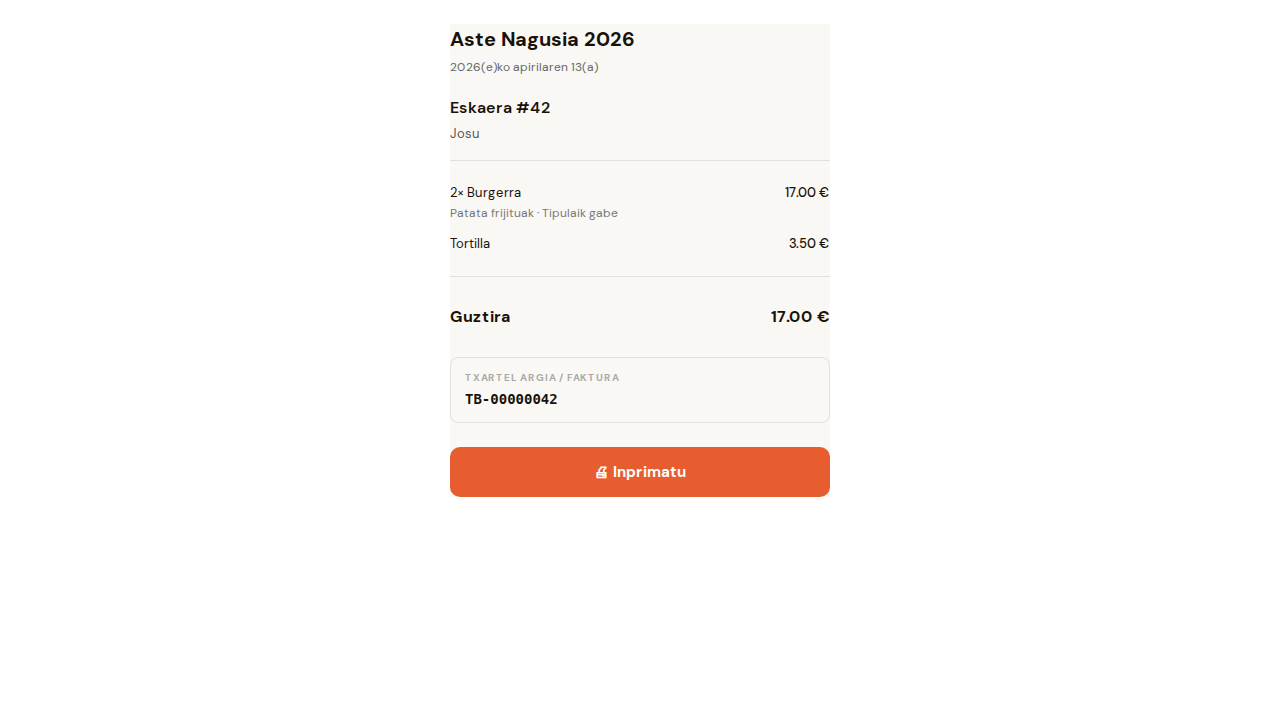
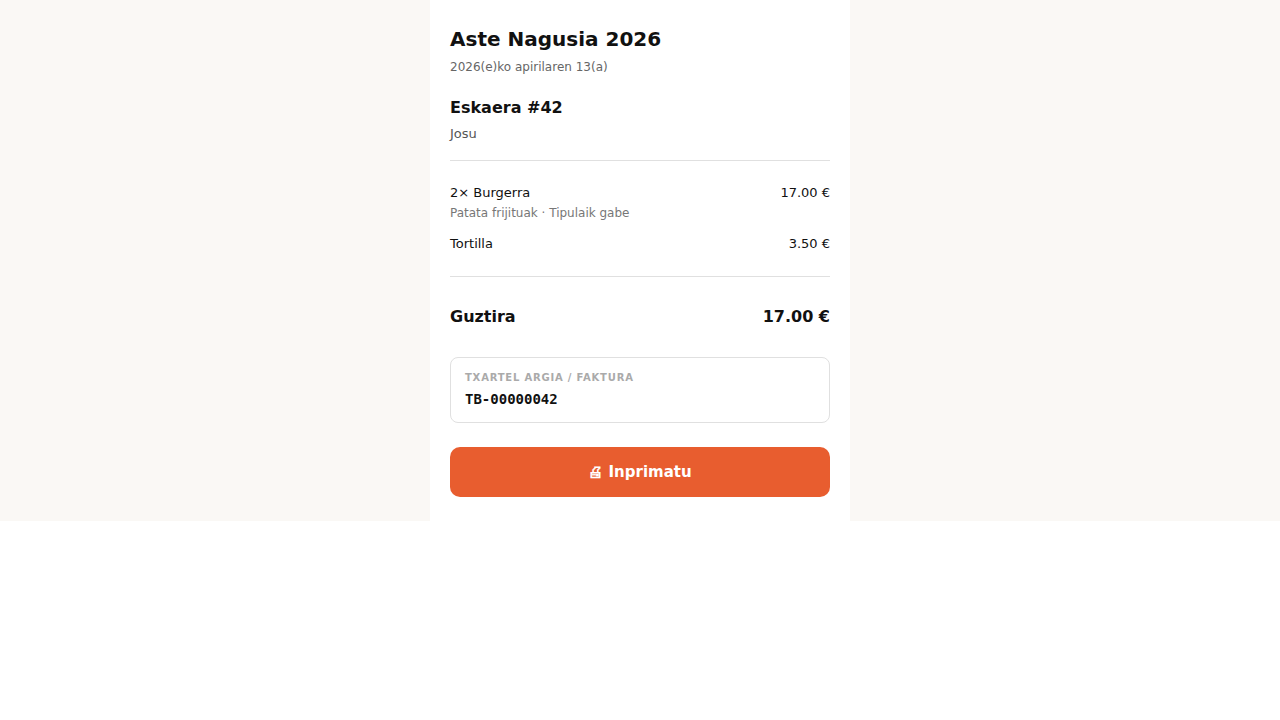
fix(receipt): remove nested html/head/body to fix React hydration error #418
The receipt page was rendering its own <html>, <head>, and <body> tags
inside Next.js's root layout (which already provides those elements).
The browser normalised the invalid nesting, causing a mismatch between
server-rendered HTML and what React expected during hydration.

Replace the standalone-document structure with a scoped .receipt div
wrapper. All CSS selectors are prefixed to avoid bleeding into the rest
of the app. Page title is now set via generateMetadata.

https://claude.ai/code/session_011jPSrUTJJrDkCAcd4cJ7AG

diff --git a/src/app/(public)/[locale]/[slug]/track/[code]/receipt/page.tsx b/src/app/(public)/[locale]/[slug]/track/[code]/receipt/page.tsx
@@ -1,8 +1,18 @@
 import { notFound } from 'next/navigation';
+import type { Metadata } from 'next';
 import { txosnaRepo, orderRepo, ticketRepo, ticketBaiInvoiceRepo } from '@/lib/store';
 
 interface Props {
   params: Promise<{ locale: string; slug: string; code: string }>;
+}
+
+export async function generateMetadata({ params }: Props): Promise<Metadata> {
+  const { slug, code } = await params;
+  const txosna = await txosnaRepo.findBySlug(slug);
+  const order = txosna
+    ? await orderRepo.findByVerificationCode(txosna.id, code.toUpperCase())
+    : null;
+  return { title: order ? `Txartela #${order.orderNumber}` : 'Txartela' };
 }
 
 export default async function ReceiptPage({ params }: Props) {
@@ -29,116 +39,85 @@ export default async function ReceiptPage({ params }: Props) {
   const allLines = tickets.flatMap((t) => t.lines);
 
   return (
-    <html>
-      <head>
-        <meta charSet="utf-8" />
-        <meta name="viewport" content="width=device-width, initial-scale=1" />
-        <title>Txartela #{order.orderNumber}</title>
-        <style>{`
-          * { box-sizing: border-box; margin: 0; padding: 0; }
-          body {
-            font-family: system-ui, sans-serif;
-            font-size: 14px;
-            color: #111;
-            background: #fff;
-            padding: 24px 20px;
-            max-width: 420px;
-            margin: 0 auto;
-          }
-          .header { margin-bottom: 20px; }
-          .txosna-name { font-size: 20px; font-weight: 700; }
-          .meta { font-size: 12px; color: #666; margin-top: 4px; }
-          .order-number { font-size: 16px; font-weight: 600; margin: 16px 0 4px; }
-          .customer { font-size: 13px; color: #555; }
-          hr { border: none; border-top: 1px solid #e0e0e0; margin: 16px 0; }
-          .line { display: flex; justify-content: space-between; gap: 12px; padding: 6px 0; }
-          .line-name { flex: 1; font-size: 13px; }
-          .line-detail { font-size: 12px; color: #777; margin-top: 2px; }
-          .line-price { font-size: 13px; white-space: nowrap; font-weight: 500; }
-          .total-row { display: flex; justify-content: space-between; font-size: 16px; font-weight: 700; padding: 12px 0; }
-          .footer { font-size: 11px; color: #aaa; text-align: center; margin-top: 24px; }
-          .fiscal { margin-top: 16px; padding: 12px 14px; border: 1px solid #e0e0e0; border-radius: 8px; }
-          .fiscal-label { font-size: 10px; font-weight: 700; color: #aaa; text-transform: uppercase; letter-spacing: 0.08em; margin-bottom: 4px; }
-          .fiscal-ref { font-family: monospace; font-size: 14px; font-weight: 700; }
-          .fiscal-qr { display: inline-block; margin-top: 8px; font-size: 12px; color: #e85d2f; text-decoration: none; }
-          .print-btn {
-            display: block;
-            width: 100%;
-            margin-top: 24px;
-            padding: 14px;
-            background: #e85d2f;
-            color: #fff;
-            border: none;
-            border-radius: 10px;
-            font-size: 15px;
-            font-weight: 700;
-            cursor: pointer;
-          }
-          @media print {
-            .print-btn { display: none; }
-            body { padding: 0; }
-          }
-        `}</style>
-      </head>
-      <body>
-        <div className="header">
-          <div className="txosna-name">{txosna.name}</div>
-          <div className="meta">{dateStr}</div>
-        </div>
+    <div className="receipt">
+      <style>{`
+        .receipt { font-family: system-ui, sans-serif; font-size: 14px; color: #111; background: #fff; padding: 24px 20px; max-width: 420px; margin: 0 auto; }
+        .receipt * { box-sizing: border-box; }
+        .r-header { margin-bottom: 20px; }
+        .r-txosna-name { font-size: 20px; font-weight: 700; }
+        .r-meta { font-size: 12px; color: #666; margin-top: 4px; }
+        .r-order-number { font-size: 16px; font-weight: 600; margin: 16px 0 4px; }
+        .r-customer { font-size: 13px; color: #555; }
+        .receipt hr { border: none; border-top: 1px solid #e0e0e0; margin: 16px 0; }
+        .r-line { display: flex; justify-content: space-between; gap: 12px; padding: 6px 0; }
+        .r-line-name { flex: 1; font-size: 13px; }
+        .r-line-detail { font-size: 12px; color: #777; margin-top: 2px; }
+        .r-line-price { font-size: 13px; white-space: nowrap; font-weight: 500; }
+        .r-total-row { display: flex; justify-content: space-between; font-size: 16px; font-weight: 700; padding: 12px 0; }
+        .r-footer { font-size: 11px; color: #aaa; text-align: center; margin-top: 24px; }
+        .r-fiscal { margin-top: 16px; padding: 12px 14px; border: 1px solid #e0e0e0; border-radius: 8px; }
+        .r-fiscal-label { font-size: 10px; font-weight: 700; color: #aaa; text-transform: uppercase; letter-spacing: 0.08em; margin-bottom: 4px; }
+        .r-fiscal-ref { font-family: monospace; font-size: 14px; font-weight: 700; }
+        .r-fiscal-qr { display: inline-block; margin-top: 8px; font-size: 12px; color: #e85d2f; text-decoration: none; }
+        .r-print-btn { display: block; width: 100%; margin-top: 24px; padding: 14px; background: #e85d2f; color: #fff; border: none; border-radius: 10px; font-size: 15px; font-weight: 700; cursor: pointer; }
+        @media print { .r-print-btn { display: none; } }
+      `}</style>
 
-        <div className="order-number">Eskaera #{order.orderNumber}</div>
-        {order.customerName && <div className="customer">{order.customerName}</div>}
+      <div className="r-header">
+        <div className="r-txosna-name">{txosna.name}</div>
+        <div className="r-meta">{dateStr}</div>
+      </div>
 
-        <hr />
+      <div className="r-order-number">Eskaera #{order.orderNumber}</div>
+      {order.customerName && <div className="r-customer">{order.customerName}</div>}
 
-        {allLines.map((line, i) => {
-          const details: string[] = [];
-          if (line.selectedVariant) details.push(line.selectedVariant);
-          if (line.selectedModifiers.length > 0) details.push(line.selectedModifiers.join(', '));
-          return (
-            <div key={i} className="line">
-              <div className="line-name">
-                {line.quantity > 1 && <span>{line.quantity}× </span>}
-                {line.productName}
-                {details.length > 0 && <div className="line-detail">{details.join(' · ')}</div>}
-              </div>
-              <div className="line-price">{(line.unitPrice * line.quantity).toFixed(2)} €</div>
+      <hr />
+
+      {allLines.map((line, i) => {
+        const details: string[] = [];
+        if (line.selectedVariant) details.push(line.selectedVariant);
+        if (line.selectedModifiers.length > 0) details.push(line.selectedModifiers.join(', '));
+        return (
+          <div key={i} className="r-line">
+            <div className="r-line-name">
+              {line.quantity > 1 && <span>{line.quantity}× </span>}
+              {line.productName}
+              {details.length > 0 && <div className="r-line-detail">{details.join(' · ')}</div>}
             </div>
-          );
-        })}
-
-        <hr />
-
-        <div className="total-row">
-          <span>Guztira</span>
-          <span>{order.total.toFixed(2)} €</span>
-        </div>
-
-        {fiscalInvoice ? (
-          <div className="fiscal">
-            <div className="fiscal-label">Txartel argia / Faktura</div>
-            <div className="fiscal-ref">
-              {fiscalInvoice.series}-{String(fiscalInvoice.invoiceNumber).padStart(8, '0')}
-            </div>
-            {fiscalInvoice.qrUrl && (
-              <a className="fiscal-qr" href={fiscalInvoice.qrUrl}>
-                QR kodea ikusi → {fiscalInvoice.qrUrl}
-              </a>
-            )}
+            <div className="r-line-price">{(line.unitPrice * line.quantity).toFixed(2)} €</div>
           </div>
-        ) : (
-          <div className="footer">Ez da zerga-dokumentua</div>
-        )}
+        );
+      })}
 
-        <button className="print-btn" onClick={undefined}>
-          🖨 Inprimatu
-        </button>
-        <script
-          dangerouslySetInnerHTML={{
-            __html: `document.querySelector('.print-btn').addEventListener('click', () => window.print())`,
-          }}
-        />
-      </body>
-    </html>
+      <hr />
+
+      <div className="r-total-row">
+        <span>Guztira</span>
+        <span>{order.total.toFixed(2)} €</span>
+      </div>
+
+      {fiscalInvoice ? (
+        <div className="r-fiscal">
+          <div className="r-fiscal-label">Txartel argia / Faktura</div>
+          <div className="r-fiscal-ref">
+            {fiscalInvoice.series}-{String(fiscalInvoice.invoiceNumber).padStart(8, '0')}
+          </div>
+          {fiscalInvoice.qrUrl && (
+            <a className="r-fiscal-qr" href={fiscalInvoice.qrUrl}>
+              QR kodea ikusi → {fiscalInvoice.qrUrl}
+            </a>
+          )}
+        </div>
+      ) : (
+        <div className="r-footer">Ez da zerga-dokumentua</div>
+      )}
+
+      <button className="r-print-btn">🖨 Inprimatu</button>
+      <script
+        dangerouslySetInnerHTML={{
+          __html: `document.querySelector('.r-print-btn').addEventListener('click', () => window.print())`,
+        }}
+      />
+    </div>
   );
 }